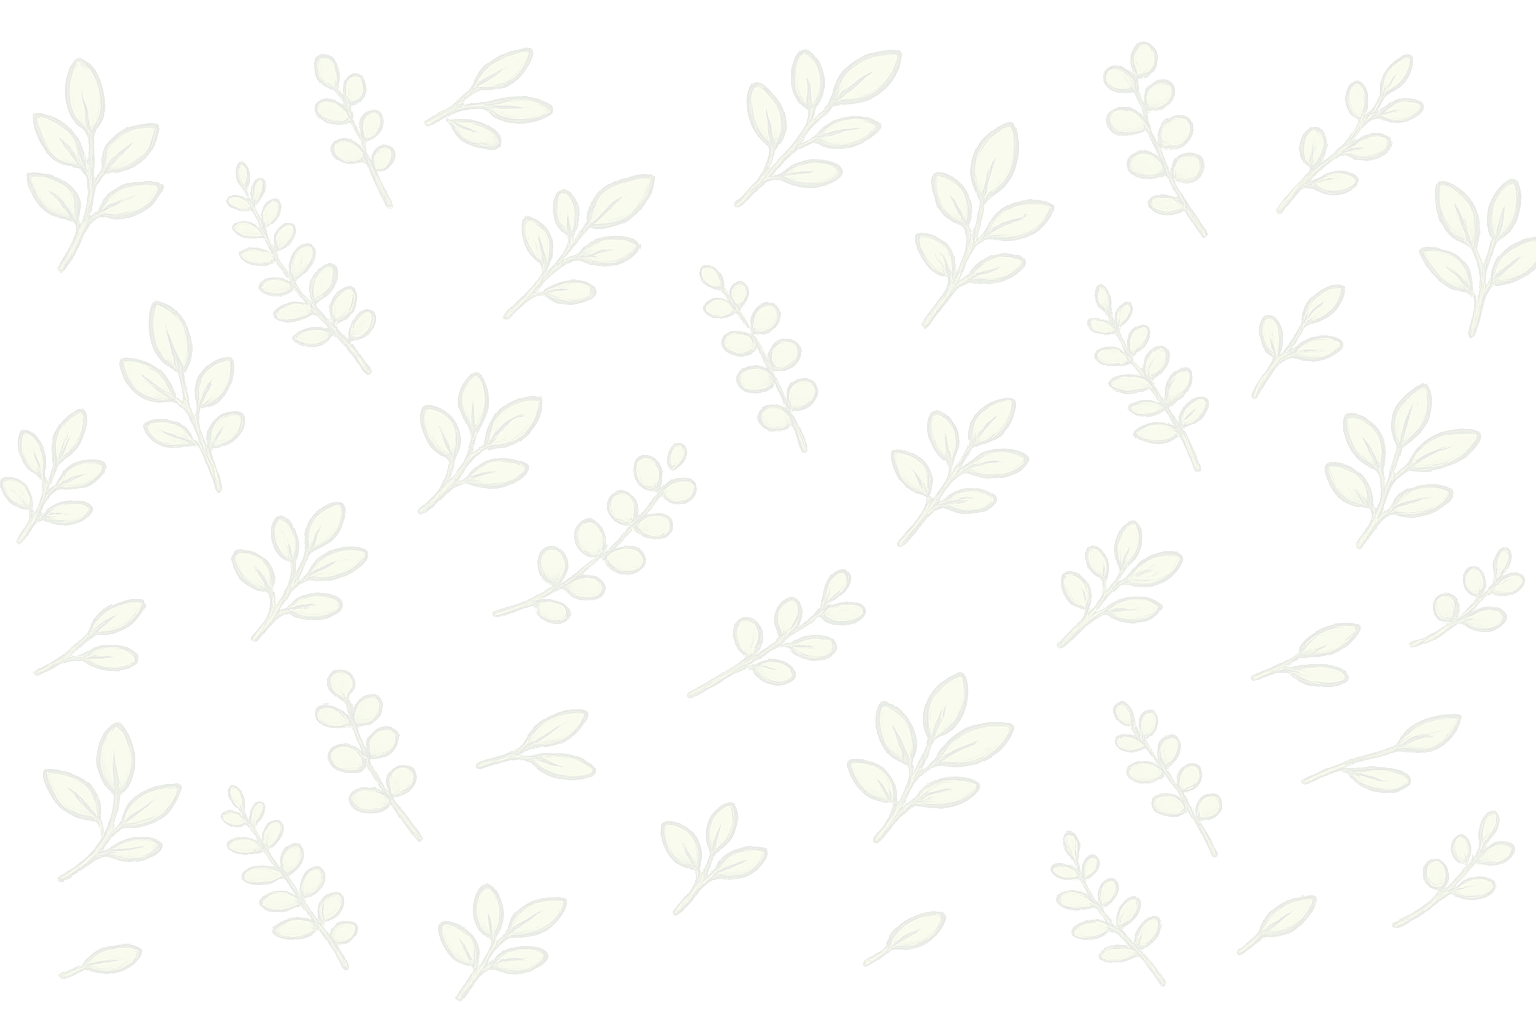
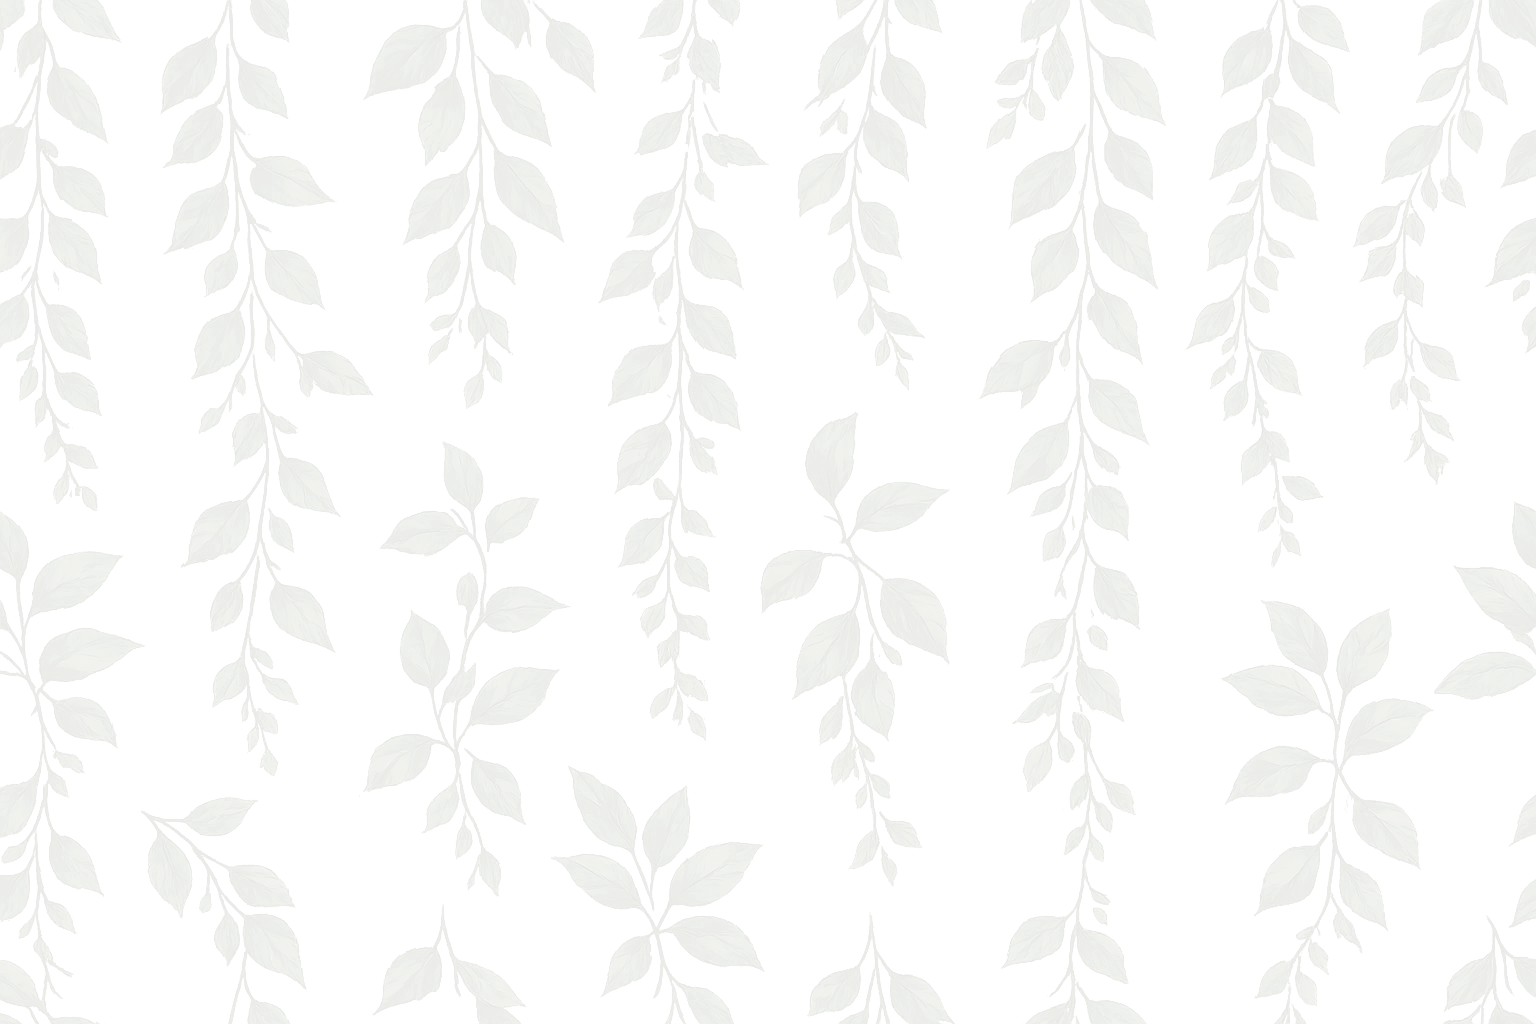
Co-authored-by: anny46712-spec <[email redacted]> v4

diff --git a/css/styles.css b/css/styles.css
@@ -7,7 +7,7 @@
   --sombra: 0 8px 30px rgba(0, 0, 0, 0.2);
 }
 
-@media (prefers-color-scheme: dark) {
+@media (prefers-color-scheme: light) {
   :root {
     --primaria: #425234;
     --secundaria: #38452c;
@@ -72,7 +72,6 @@ header a {
 }
 
 .logo {
-  width: 100px;
   height: 100px;
 }
 
@@ -483,6 +482,7 @@ footer h3 {
   align-items: center;
   justify-content: center;
   margin-top: 135px;
+  margin-bottom: 20px;
 }
 
 #avaliacoes h1 {
@@ -526,4 +526,45 @@ footer h3 {
 .nota::placeholder {
   color: var(--cinza);
   font-size: large;
+}
+
+/* avaliações registradas */
+
+#avaliacoesCards {
+  display: flex;
+  justify-content: center;
+  padding: 10px;
+  gap: 10px;
+  flex-wrap: wrap;
+}
+
+.cardC{
+  background-color: var(--secundaria);
+  transition: 0.3s;
+}
+.cardC:hover{
+  transform: scale(1.035);
+}
+
+.cardC p {
+  padding: 5px;
+  width: 300px;
+  height: 345px;
+}
+
+.cardC #nomeCliente {
+  font-style: italic;
+  color: var(--preto);
+}
+
+.cardC #notaC {
+  font-style: italic;
+  color: var(--preto);
+    margin-top: -315px;
+}
+
+.cardC #mensagemC {
+  color: var(--cinza);
+  position: absolute;
+  margin-top: -315px;
 }

diff --git a/avaliacoes.html b/avaliacoes.html
@@ -40,8 +40,21 @@
         >
         </textarea>
 
-        <button class="submitButton" type="submit">Cadastrar</button>
+        <button class="submitButton" type="submit">Enviar</button>
       </form>
+    </section>
+
+    <section id="avaliacoesCardsSection">
+      <div id="avaliacoesCards">
+        <!--
+
+        <div class="cardC">
+          <p id="nomeCliente">Nome cliente</p>
+          <p id="notaC">4/5</p>
+          <p id="mensagemC">-------------------------------------------------------------------------------------------------------------------------------------------------------------------------------------------------------------------------------------------------------------------------------------------------------------------------------------------------------------------------------------------------------------------------------------------------------------------------------------------------------------------------------------------------------------------------------------------------------------------------------------------------------------------------------------------------------------------------------------------------------------------------------------------------------------------------------------------------------------------------------</p>
+        </div> 
+         
+        -->
     </section>
 
     <footer>